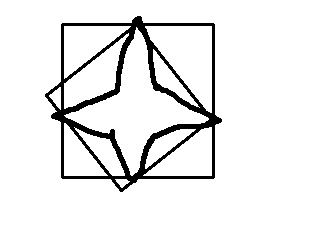
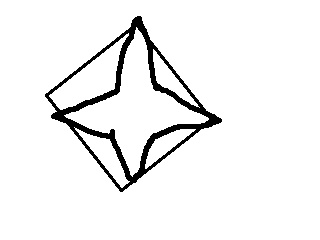
Fixed image_loading bug
cv2 modifies the fed image pointer.

diff --git a/Lab1/images/contours.py b/Lab1/images/contours.py
@@ -2,6 +2,9 @@ import cv2
 import numpy as np
 from matplotlib import pyplot as plt
 
+def reload_image(image):
+	img = cv2.imread(image, 0)
+	return img
 
 def contour(image = 'something', percent_arclength = 0.1):
 	img = cv2.imread(image, 0)
@@ -35,37 +38,45 @@ def contour(image = 'something', percent_arclength = 0.1):
 
 	#Bounding Rectangle
 	x,y,w,h = cv2.boundingRect(cnt)
-	img = cv2.rectangle(original_image,(x,y),(x+w,y+h),(0,255,0),2)
+	img1 = cv2.rectangle(original_image,(x,y),(x+w,y+h),(0,255,0),2)
 
-	cv2.imwrite('output/BoundingRect.jpg', img)
+	cv2.imwrite('output/BoundingRect.jpg', img1)
+
+	img = reload_image(image)
 
 	#Rotated Bounding Rectangle
 	rect = cv2.minAreaRect(cnt)
 	box = cv2.boxPoints(rect)
 	box = np.int0(box)
-	im = cv2.drawContours(original_image,[box],0,(0,0,255),2)
+	img5 = cv2.drawContours(img,[box],0,(0,0,255),2)
 
-	cv2.imwrite('output/BoundingRectRotated.jpg', im)
+	cv2.imwrite('output/BoundingRectRotated.jpg', img5)
+
+	img = reload_image(image)
 
 	#Minimum Enclosing Circle
 	(x,y),radius = cv2.minEnclosingCircle(cnt)
 	center = (int(x),int(y))
 	radius = int(radius)
-	img = cv2.circle(img,center,radius,(0,255,0),2)
-	cv2.imwrite('output/MinCircle.jpg', img)
+	img2 = cv2.circle(img,center,radius,(0,255,0),2)
+	cv2.imwrite('output/MinCircle.jpg', img2)
+
+	img = reload_image(image)
 
 	#Fitting Ellipse
 	ellipse = cv2.fitEllipse(cnt)
-	im = cv2.ellipse(original_image,ellipse,(0,255,0),2)
-	cv2.imwrite('output/FitEllipse.jpg', im)
+	img4 = cv2.ellipse(img,ellipse,(0,255,0),2)
+	cv2.imwrite('output/FitEllipse.jpg', img4)
 	
+	img = reload_image(image)
+
 	#Fitting a line
 	rows,cols = img.shape[:2]
 	[vx,vy,x,y] = cv2.fitLine(cnt, cv2.DIST_L2,0,0.01,0.01)
 	lefty = int((-x*vy/vx) + y)
 	righty = int(((cols-x)*vy/vx)+y)
-	img = cv2.line(img,(cols-1,righty),(0,lefty),(0,255,0),2)
-	cv2.imwrite('output/FitEllipse.jpg', img)
+	img3 = cv2.line(img,(cols-1,righty),(0,lefty),(0,255,0),2)
+	cv2.imwrite('output/FitLine.jpg', img3)
 
 
 def main():
